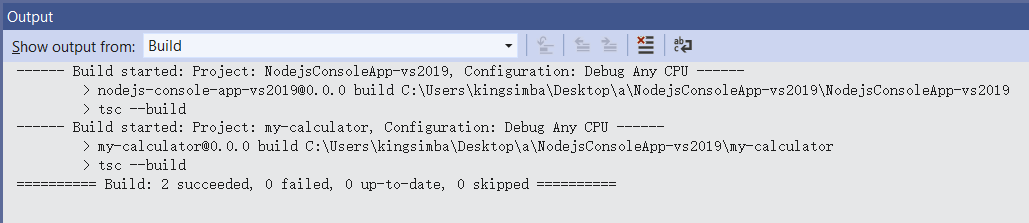
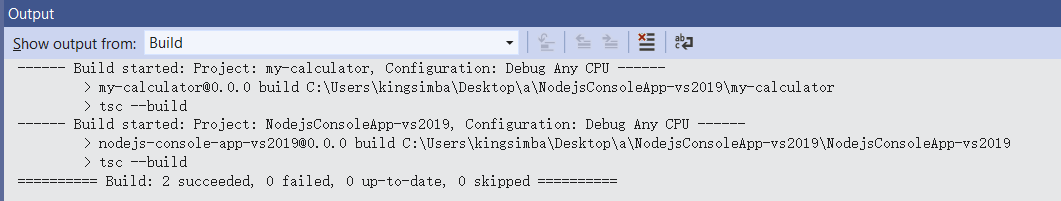
update

Changed region(s): [[0.0, 0.1493, 1.0, 0.9254], [0.0, 0.0, 1.0, 0.1194]]

diff --git a/README.md b/README.md
@@ -25,7 +25,7 @@ As a large project, I hope:
 
   ![](images/solution.png)
 
-* Compile related projects (Partially ✅)
+* Link to related projects (Partially ✅)
 
   There is no direct support. But it can be achieved with `npm link`
 
@@ -53,6 +53,9 @@ As a large project, I hope:
   ![](images/build.png)
 
 * Clean ✅
+* Respect Dependency
+  * Build only when dependant projects finished. ✅
+  * Abort if any dependant project fail to build. ❌
 * Fast skip ❌
 
   'tsc --build' will be executed even no file is modified since last build.
